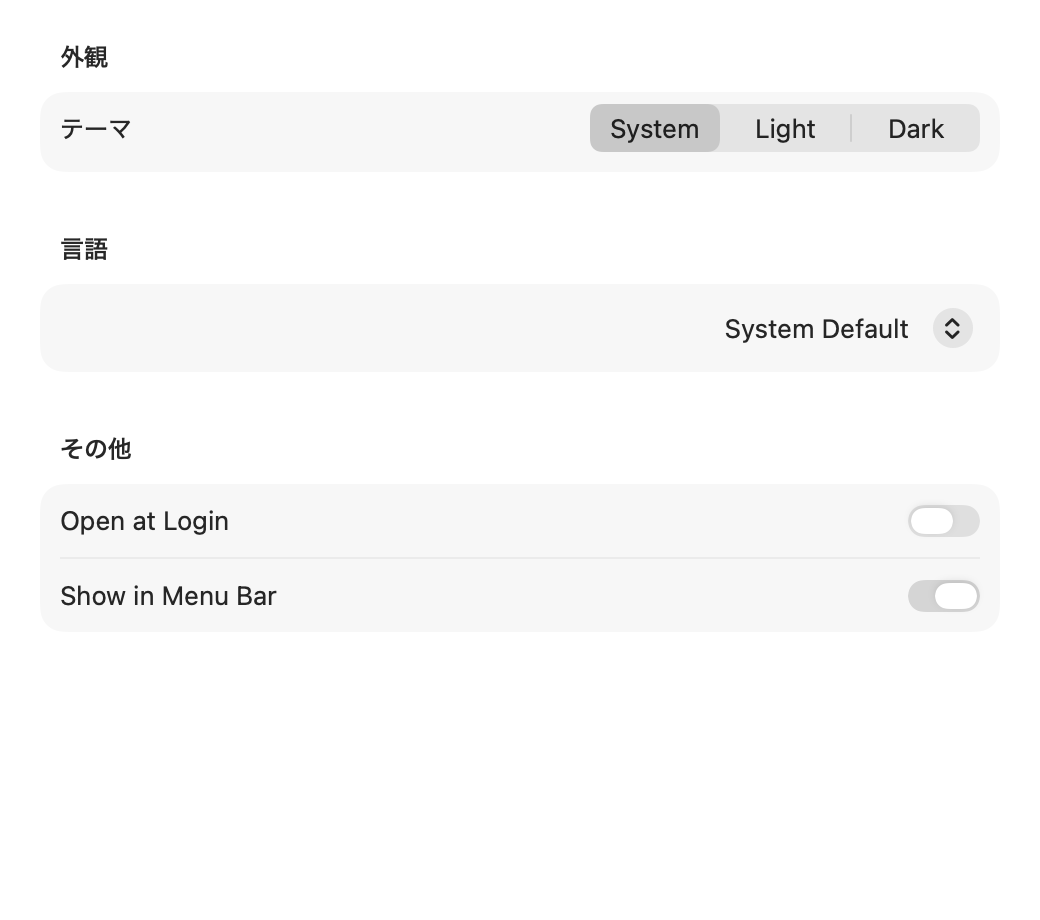
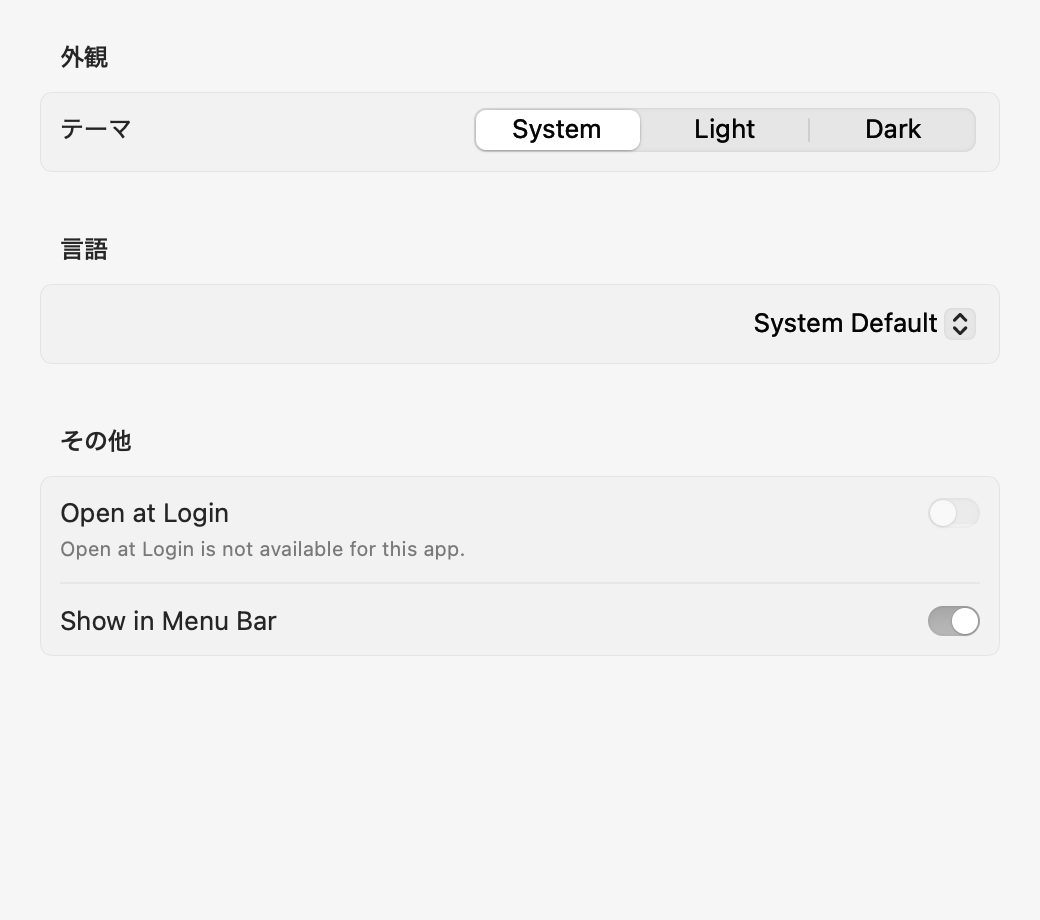
docs: README にタブの帯のスクショを足し、スクショを全部撮り直す
- 生成器に StandardTabStrip の見本 (Light / Dark) を足す。中で ScrollView を使うので hosting 経由で描く
- README のスクショにタブの帯の節を足す (lib が描くもの・consumer が描くもの・tabOverlay で足せる目印)
- 位置づけの一覧にタブの帯とタイトルバーの切り替えを足す
- トーストの配色を直した後 (7b87227) に撮り直していなかったので、既存のスクショも全部撮り直す

diff --git a/Tools/ScreenshotGenerator/main.swift b/Tools/ScreenshotGenerator/main.swift
@@ -9,7 +9,7 @@
 // 注意:
 // - NSWindow chrome (タイトルバー / 閉じるボタン / vibrancy 背景) は SwiftUI View
 //   ベースの `ImageRenderer` では再現されない。本ツールが捕捉するのは「Settings
-//   ウィンドウ内コンテンツ」「Toast 単体」など pure SwiftUI View 部分のみ。
+//   ウィンドウ内コンテンツ」「タブの帯」「Toast 単体」など SwiftUI View 部分のみ。
 // - `applyAppAppearance` は NSWindow.appearance を更新する modifier だが、
 //   本ツール下では実 NSWindow が無いので no-op になる。Light/Dark の差は
 //   `.preferredColorScheme(_:)` で表現する。
@@ -47,6 +47,11 @@ enum ScreenshotGenerator {
             name: "settings-shortcuts",
             in: outputDir
         )
+
+        // タブの帯: 中で ScrollView を使うので ImageRenderer では描けない (hosting 経由)。
+        let tabStripSize = NSSize(width: 640, height: 96)
+        writeViaHosting(view: tabStripSample(scheme: .light), size: tabStripSize, name: "tab-strip-light", in: outputDir)
+        writeViaHosting(view: tabStripSample(scheme: .dark), size: tabStripSize, name: "tab-strip-dark", in: outputDir)
 
         // Toast 各種: Toast は pure SwiftUI なので ImageRenderer で十分。
         write(view: toastSample(.success, title: "Saved"), name: "toast-success", in: outputDir)
@@ -201,6 +206,49 @@ enum ScreenshotGenerator {
         )
         .frame(width: 560, height: 430)
         .background(Color(NSColor.windowBackgroundColor))
+    }
+
+    struct TabSampleItem: Identifiable, Equatable {
+        let id: Int
+        let symbol: String
+        let title: String
+    }
+
+    /// `StandardTabStrip` の既定の見た目 (Chrome 風)。帯の地を一段沈め、選んでいるタブを下の本体と同じ色で塗って下端でつなぐ。
+    /// 帯の地・本体・境の線は consumer が描くもの (lib は描かない) なので、ここで見本の色を置く。
+    static func tabStripSample(scheme: ColorScheme) -> some View {
+        let dark = scheme == .dark
+        let pane = dark ? Color(white: 0.17) : Color(white: 0.98)
+        let strip = dark ? Color(white: 0.10) : Color(white: 0.89)
+        let line = dark ? Color(white: 0.26) : Color(white: 0.80)
+        let items = [
+            TabSampleItem(id: 1, symbol: "folder", title: "Documents"),
+            TabSampleItem(id: 2, symbol: "photo", title: "Photos"),
+            TabSampleItem(id: 3, symbol: "film", title: "Movies"),
+            TabSampleItem(id: 4, symbol: "music.note", title: "Music"),
+        ]
+        return VStack(spacing: 0) {
+            StandardTabStrip(
+                items,
+                activeID: 2,
+                selectedFill: pane,
+                onSelect: { _ in },
+                onClose: { _ in },
+                onAdd: {}
+            ) { item, state in
+                Label(item.title, systemImage: item.symbol)
+                    .font(.system(size: 12, weight: state.isActive ? .medium : .regular))
+                    .foregroundStyle(state.isActive ? .primary : .secondary)
+                    .lineLimit(1)
+            }
+            .fixedSize(horizontal: false, vertical: true)
+            .background(alignment: .bottom) { Rectangle().fill(line).frame(height: 1) }
+            .background(strip)
+            pane
+        }
+        .frame(maxWidth: .infinity, maxHeight: .infinity, alignment: .top)
+        .environment(\.colorScheme, scheme)
+        .preferredColorScheme(scheme)
     }
 
     // MARK: - Render to PNG (ImageRenderer route — pure SwiftUI views)
